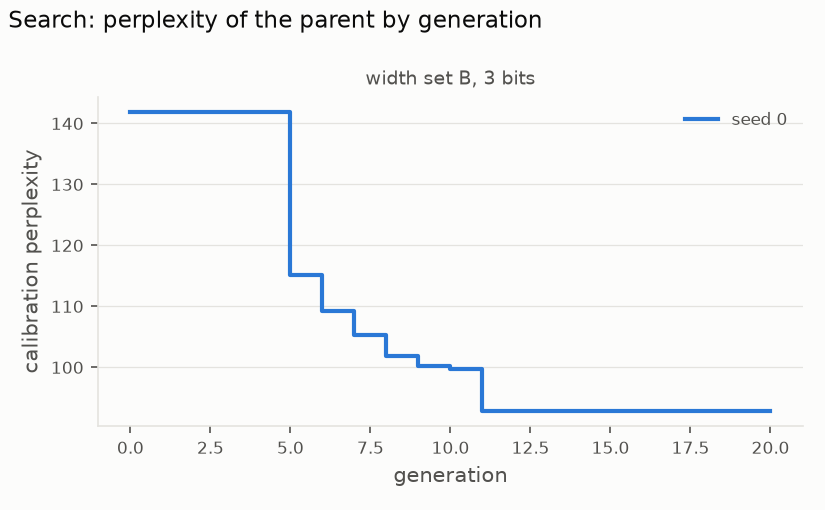
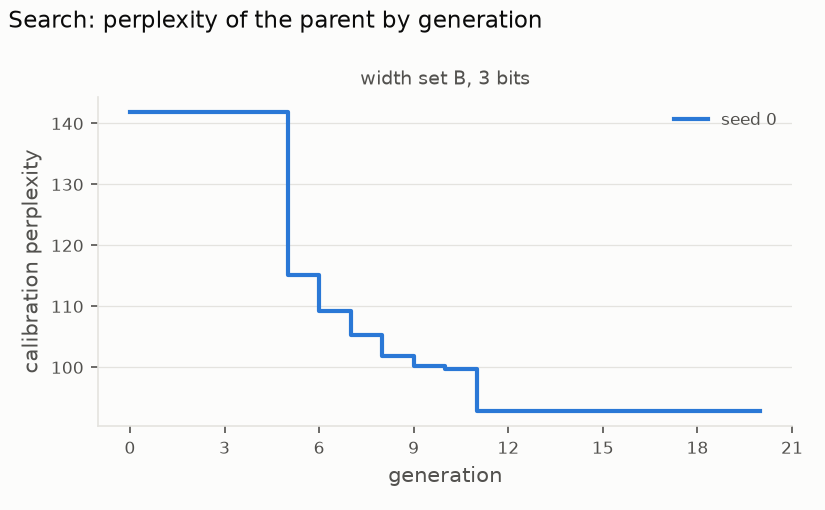
updates

diff --git a/python/analyze_search.py b/python/analyze_search.py
@@ -1,14 +1,17 @@
 """Phase 6 analysis of results/phase6_search.json: calibration perplexity of the parent against generation for
 every run, and the spread over seeds of each width set and budget.
 
-Writes results/phase6_analysis.json and results/phase6_convergence.png.
+Writes results/phase6_analysis.json and two figures: results/phase6_convergence.png, and
+results/phase6_allocation.png, the start and the result of the best seed of each width set and budget as a
+grid of widths.
 """
 import json
 import math
 
 import numpy as np
+from matplotlib.ticker import MaxNLocator
 
-from analyze_scan import INK_2, RESULTS, SURFACE, TYPE_COLORS, plt, save, style
+from analyze_scan import DEPTH, INK, INK_2, KINDS, RESULTS, SURFACE, TYPE_COLORS, plt, save, style
 from common import write_json
 
 
@@ -46,10 +49,40 @@ def main():
             t = out["runs"][k]["trajectory"]
             ax.step(range(len(t)), t, where="post", color=TYPE_COLORS[seed], linewidth=2, label=f"seed {seed}")
         ax.set_title(f"width set {config.split('/')[0]}, {config.split('/')[1]} bits", color=INK_2, fontsize=9)
-        ax.set_xlabel("generation")
+        ax.set_xlabel("generation"), ax.xaxis.set_major_locator(MaxNLocator(integer=True))
     axes[0].set_ylabel("calibration perplexity")
     axes[0].legend(frameon=False, fontsize=8, labelcolor=INK_2)
     save(fig, "phase6_convergence.png", "Search: perplexity of the parent by generation")
+
+    # Allocation maps: rows are module types, columns blocks, colour and number the width; outlined cells
+    # are the ones the search changed.
+    shade = {2: 0, 3: 3, 4: 6, 6: 9, 8: 11}  # steps of the one-hue ramp, light = few bits
+    fig, axes = plt.subplots(len(names), 2, figsize=(10, 1.9 * len(names) + 0.4), squeeze=False)
+    fig.patch.set_facecolor(SURFACE)
+    for row, config in zip(axes, names):
+        best = min(configs[config], key=lambda k: out["runs"][k]["perplexity"])
+        r = search["runs"][best]
+        panels = [("rate-distortion start", r["start"], out["runs"][best]["start_perplexity"]),
+                  (f"search, seed {r['seed']}", r["generations"][-1]["parent"], out["runs"][best]["perplexity"])]
+        for ax, (label, widths, ppl) in zip(row, panels):
+            ax.set_facecolor(SURFACE)
+            for i, b in enumerate(widths):
+                block, kind = divmod(i, len(KINDS))
+                changed = label.startswith("search") and b != r["start"][i]
+                ax.add_patch(plt.Rectangle((block + 0.04, kind + 0.04), 0.92, 0.92, color=DEPTH[shade[b]],
+                                           ec=INK if changed else SURFACE, lw=2 if changed else 0))
+                ax.text(block + 0.5, kind + 0.5, str(b), ha="center", va="center", fontsize=8,
+                        color=SURFACE if shade[b] >= 5 else INK)
+            ax.set_xlim(0, 12), ax.set_ylim(len(KINDS), 0)
+            ax.set_xticks([b + 0.5 for b in range(12)], [str(b) for b in range(12)])
+            ax.set_yticks([k + 0.5 for k in range(len(KINDS))], KINDS)
+            ax.tick_params(length=0, colors=INK_2, labelsize=8)
+            for side in ax.spines.values():
+                side.set_visible(False)
+            ax.set_title(f"width set {config.split('/')[0]}, {config.split('/')[1]} bits: {label}, "
+                         f"perplexity {ppl:.1f}", color=INK_2, fontsize=9, loc="left")
+        row[0].set_xlabel("block", color=INK_2, fontsize=8), row[1].set_xlabel("block", color=INK_2, fontsize=8)
+    save(fig, "phase6_allocation.png", "Bits per module: outlined cells are the ones the search changed")
 
     print(json.dumps({k: {kk: v for kk, v in r.items() if kk != "trajectory"} for k, r in out["runs"].items()},
                      indent=2))

diff --git a/README.md b/README.md
@@ -7,6 +7,23 @@ bit-plane) and uses llama.cpp as an outside baseline. The full plan and pass gat
 
 Machine: Intel i5-1135G7 (4 cores, AVX-512), 8 GB RAM, Windows 11.
 
+```mermaid
+flowchart LR
+  P0["0 · weights, tokens,<br/>reference outputs"] --> P1["1 · FP32 engine<br/>(C++)"]
+  P1 --> P2["2 · bandwidth,<br/>fast FP32 decode"]
+  P2 --> P3["3 · quantized kernels<br/>U and P"]
+  P0 --> P4["4 · sensitivity scan<br/>(Python)"]
+  P4 --> P5["5 · closed-form<br/>allocation"]
+  P5 --> P6["6 · evolutionary<br/>search"]
+  P3 --> P7["7 · experiments:<br/>quality and speed"]
+  P5 --> P7
+  P6 --> P7
+```
+
+The C++ side (phases 1–3) makes quantized decoding fast. The Python side (phases 4–6) decides how many bits
+each of the 48 weight matrices gets. Phase 7 runs those allocations in the engine and measures quality and
+speed.
+
 ## Status
 
 | Phase | What | Result |
@@ -17,7 +34,8 @@ Machine: Intel i5-1135G7 (4 cores, AVX-512), 8 GB RAM, Windows 11.
 | 3 | Quantized kernels, two families | Done: matches Python within 7e-6 |
 | 4 | Sensitivity and interaction scans | Scans done; written discussion still to do |
 | 5 | Closed-form allocation | Allocations scored; derivations and BAQ comparison still to do |
-| 6–7 | Search, experiments | Not started |
+| 6 | Evolutionary search | First run done (3-bit perplexity 142 → 93); 11 runs to go |
+| 7 | Experiments | Not started |
 
 ## Setup (Windows)
 
@@ -86,6 +104,23 @@ cpp\build\phase3_bench.exe [--decode]                         # gate (c); result
   in llama.cpp). The kernel unpacks them, converts to float and multiplies (AVX-512).
 - **Family P (bit-plane):** each bit of the codes is stored separately. A 16-entry table of partial sums
   for every 4 inputs replaces the multiplications. One kernel serves every width.
+
+```mermaid
+flowchart LR
+  subgraph U["Family U: unpack-dequantize"]
+    direction LR
+    u1["packed codes"] --> u2["shift + mask:<br/>16 codes per load"] --> u3["convert<br/>to float"] --> u4["multiply-add<br/>with x"]
+  end
+  subgraph P["Family P: bit-plane"]
+    direction LR
+    p1["x, 4 inputs<br/>at a time"] --> p2["16-entry table<br/>of partial sums"]
+    p3["one bit plane<br/>of the codes"] --> p4["table lookup:<br/>16 columns at once"]
+    p2 --> p4 --> p5["add the planes,<br/>weighted by 2^i"]
+  end
+  u4 --> out["per group:<br/>× scale + min × Σx"]
+  p5 --> out
+```
+
 - **An allocation** is 48 widths (0 = FP32), the head at FP32 or 8 bits, and a family.
 - `qmatmul` handles 64 rows at a time with exactly the arithmetic of a decode step. A 32-window
   perplexity takes about 3 minutes.
@@ -124,17 +159,39 @@ Running it:
 
 - **Bits vs. damage:** loss falls about as 2^-2b. The fitted exponent has median 1.94 (the model assumes
   2) and ranges from 1.07 to 3.53 across modules.
+
+  ![Loss increase against width for every module](results/phase4_loss_vs_bits.png)
+
+  *One line per module, darker for later blocks. The dashed line is the 2^-2b slope.*
+
 - **Where the damage is:** at 3 bits, the top 5 of 48 modules cause 32% of it. They are mostly the
   attention input projections (`attn.c_attn`) of blocks 2–8.
+
+  ![Loss increase with one module at 3 bits](results/phase4_loss_by_module.png)
+
+  *Damage when only one module is at 3 bits (log scale). `h.10.mlp.c_proj` is missing: its damage is
+  slightly negative (noise).*
+
 - **2-bit outliers:** some modules break at 2 bits (`h.0.mlp.c_proj`: perplexity 381). Ranking modules
   with and without 2-bit gives different orders (Kendall τ 0.64).
 - **Pairs:** two modules' damage adds up (median ratio 0.99–1.04 per group).
+
+  ![Pair ratios by group](results/phase4_pairs.png)
+
+  *Damage of a pair divided by the sum of each module alone; 1 means it adds up.*
+
 - **Whole allocations (near uniform):** the sum of single-module damage ranks allocations well (Spearman
   0.96) but underestimates the damage. At 4 bits it is close: uniform 4-bit measures perplexity 37.4
   against a predicted 36.5. At 3 bits it fails: uniform 3-bit measures 166 against a predicted 56, so errors
   stop adding up below 4 bits.
 - **Whole allocations (far from uniform):** with 6–16 modules at 2 bits, the model breaks (perplexity
   96–4,700), and the real damage is about 1.8× the sum of the single-module damage.
+
+  ![Measured against predicted damage for whole allocations](results/phase4_additivity.png)
+
+  *Each point is one allocation. On the dashed line, the damage adds up exactly; above it, the real damage
+  is worse than predicted. Near-uniform 4-bit allocations (bottom left) sit close to the line, 3-bit ones far
+  above it.*
 
 ## Phase 5: closed-form allocation
 
@@ -149,9 +206,21 @@ builds three allocations:
 - **quadratic** (comparison): MAPLE's quadratic moved to bits, using s_l and b*_l.
 - **greedy** (reference): the measured Phase 4 table alone.
 
+```mermaid
+flowchart LR
+  A["Phase 4 table:<br/>c_l, s_l, b*_l"] --> B["closed form:<br/>real-valued bits"]
+  B --> C["clamp to 2–8,<br/>round to the width set"]
+  C --> D["greedy repair to<br/>the exact budget"]
+  D --> E["score on the<br/>calibration slice"]
+```
+
 Each closed-form solution is clamped to [2, 8], rounded to the width set, then adjusted greedily to hit the
 budget exactly. Allocations are scored on the same calibration slice as Phase 4; the test split is not
-touched. The closed forms are in one marked block at the top of `allocate.py`. They answer the guide's
+touched.
+
+![Rate-distortion coefficient of every module](results/phase4_rd_coefficient.png)
+
+*c_l for every module, from the Phase 4 fit: the input of the rate–distortion formula.* The closed forms are in one marked block at the top of `allocate.py`. They answer the guide's
 derivation tasks, so skip that block if you want to derive them first.
 
 **Results** (calibration perplexity; FP32 is 32.24; best per row in bold):
@@ -172,6 +241,55 @@ derivation tasks, so skip that block if you want to derive them first.
   measured 142).
 - **Caveat:** the same data is used to fit the inputs and to score the results. Phase 7 uses the test
   split and LAMBADA.
+
+## Phase 6: evolutionary search
+
+```
+.venv\Scripts\python python\search.py --set B --budget 3 --seed 0   # one run; results/phase6_search.json
+.venv\Scripts\python python\search.py --all                          # all 12 runs: sets A, B × 3, 3.5 bits × 3 seeds
+.venv\Scripts\python python\analyze_search.py                        # results/phase6_analysis.json + 2 figures
+```
+
+The search follows EvoPress (Sieberling et al., 2025). It starts from the Phase 5 rate–distortion
+allocation, and each generation does this:
+
+```mermaid
+flowchart TD
+  S["start: rate-distortion allocation"] --> P["parent"]
+  P --> K["16 offspring,<br/>1–3 size-neutral moves each"]
+  K --> A["score on 2K tokens,<br/>keep the best 4"]
+  A --> B["score on 8K tokens,<br/>keep the best 2"]
+  B --> C["score on 16K tokens,<br/>keep the best 1"]
+  C --> D{"better than<br/>the parent?"}
+  D -- yes --> R["it becomes the parent"] --> P
+  D -- no --> P
+```
+
+- **Moves keep the bytes equal:** one module goes one width step up or down, and another module of the
+  same type (same size) goes the same number of bits the other way.
+- **Fitness:** cross-entropy on the calibration slice. EvoPress uses the KL divergence to the FP32 model
+  instead. The test split is never used.
+- Each window's score is cached by allocation, so repeated candidates cost nothing. It saves after every
+  generation, and a rerun resumes exactly.
+- One generation takes about 4 minutes, so a 20-generation run takes about 1.5 hours.
+
+**Results so far** (1 of 12 runs: set B, 3 bits, seed 0):
+
+- **Calibration perplexity went from 141.9 to 92.8** (−35%). Uniform 3-bit is 166.
+- It improved in generations 5–11, then found nothing better for 9 generations, so 20 generations is
+  enough.
+
+  ![Parent perplexity by generation](results/phase6_convergence.png)
+
+- **It changed 10 of 48 modules:** more bits for early blocks, and fewer (down to 2) for blocks 10–11.
+  The rate–distortion formula misses this trade because it assumes each module's damage is independent.
+
+  ![Allocation before and after the search](results/phase6_allocation.png)
+
+  *Bits per module, before (left) and after (right) the search. Outlined cells changed.*
+
+- **Caveat:** the search is scored on the same calibration tokens it optimizes. Phase 7 checks the result
+  on the test split.
 
 ## File formats
 
